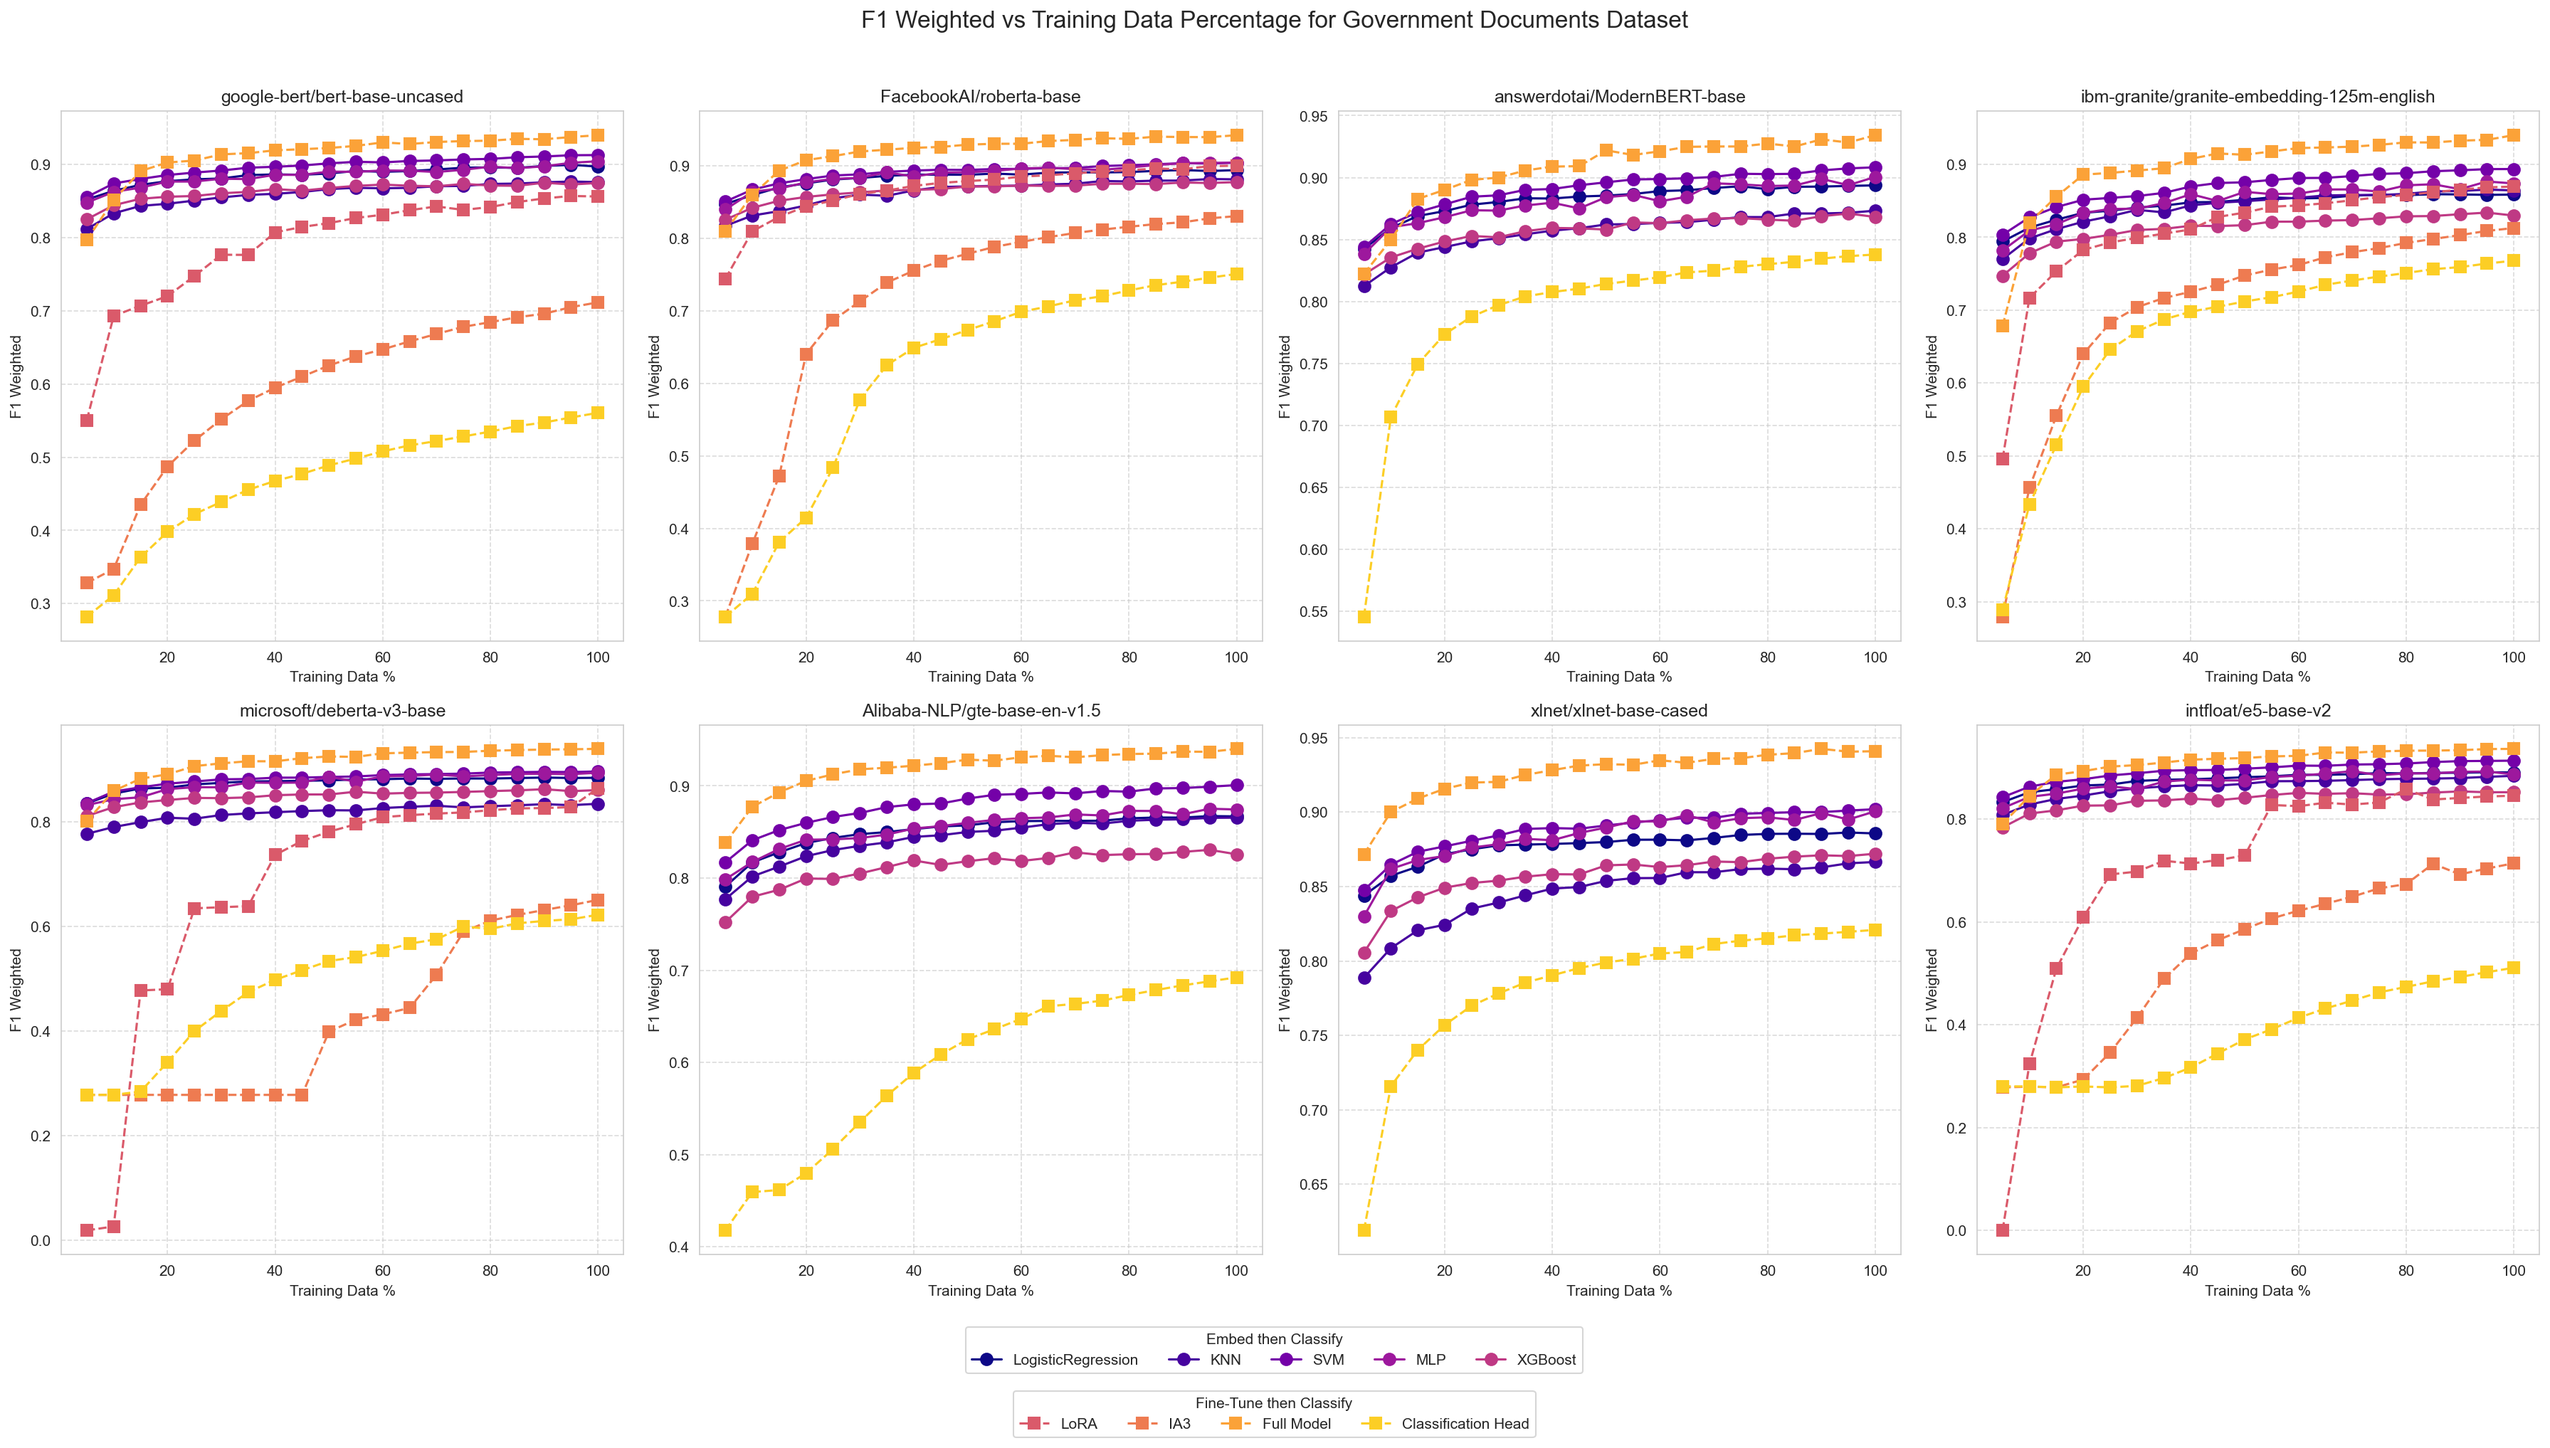
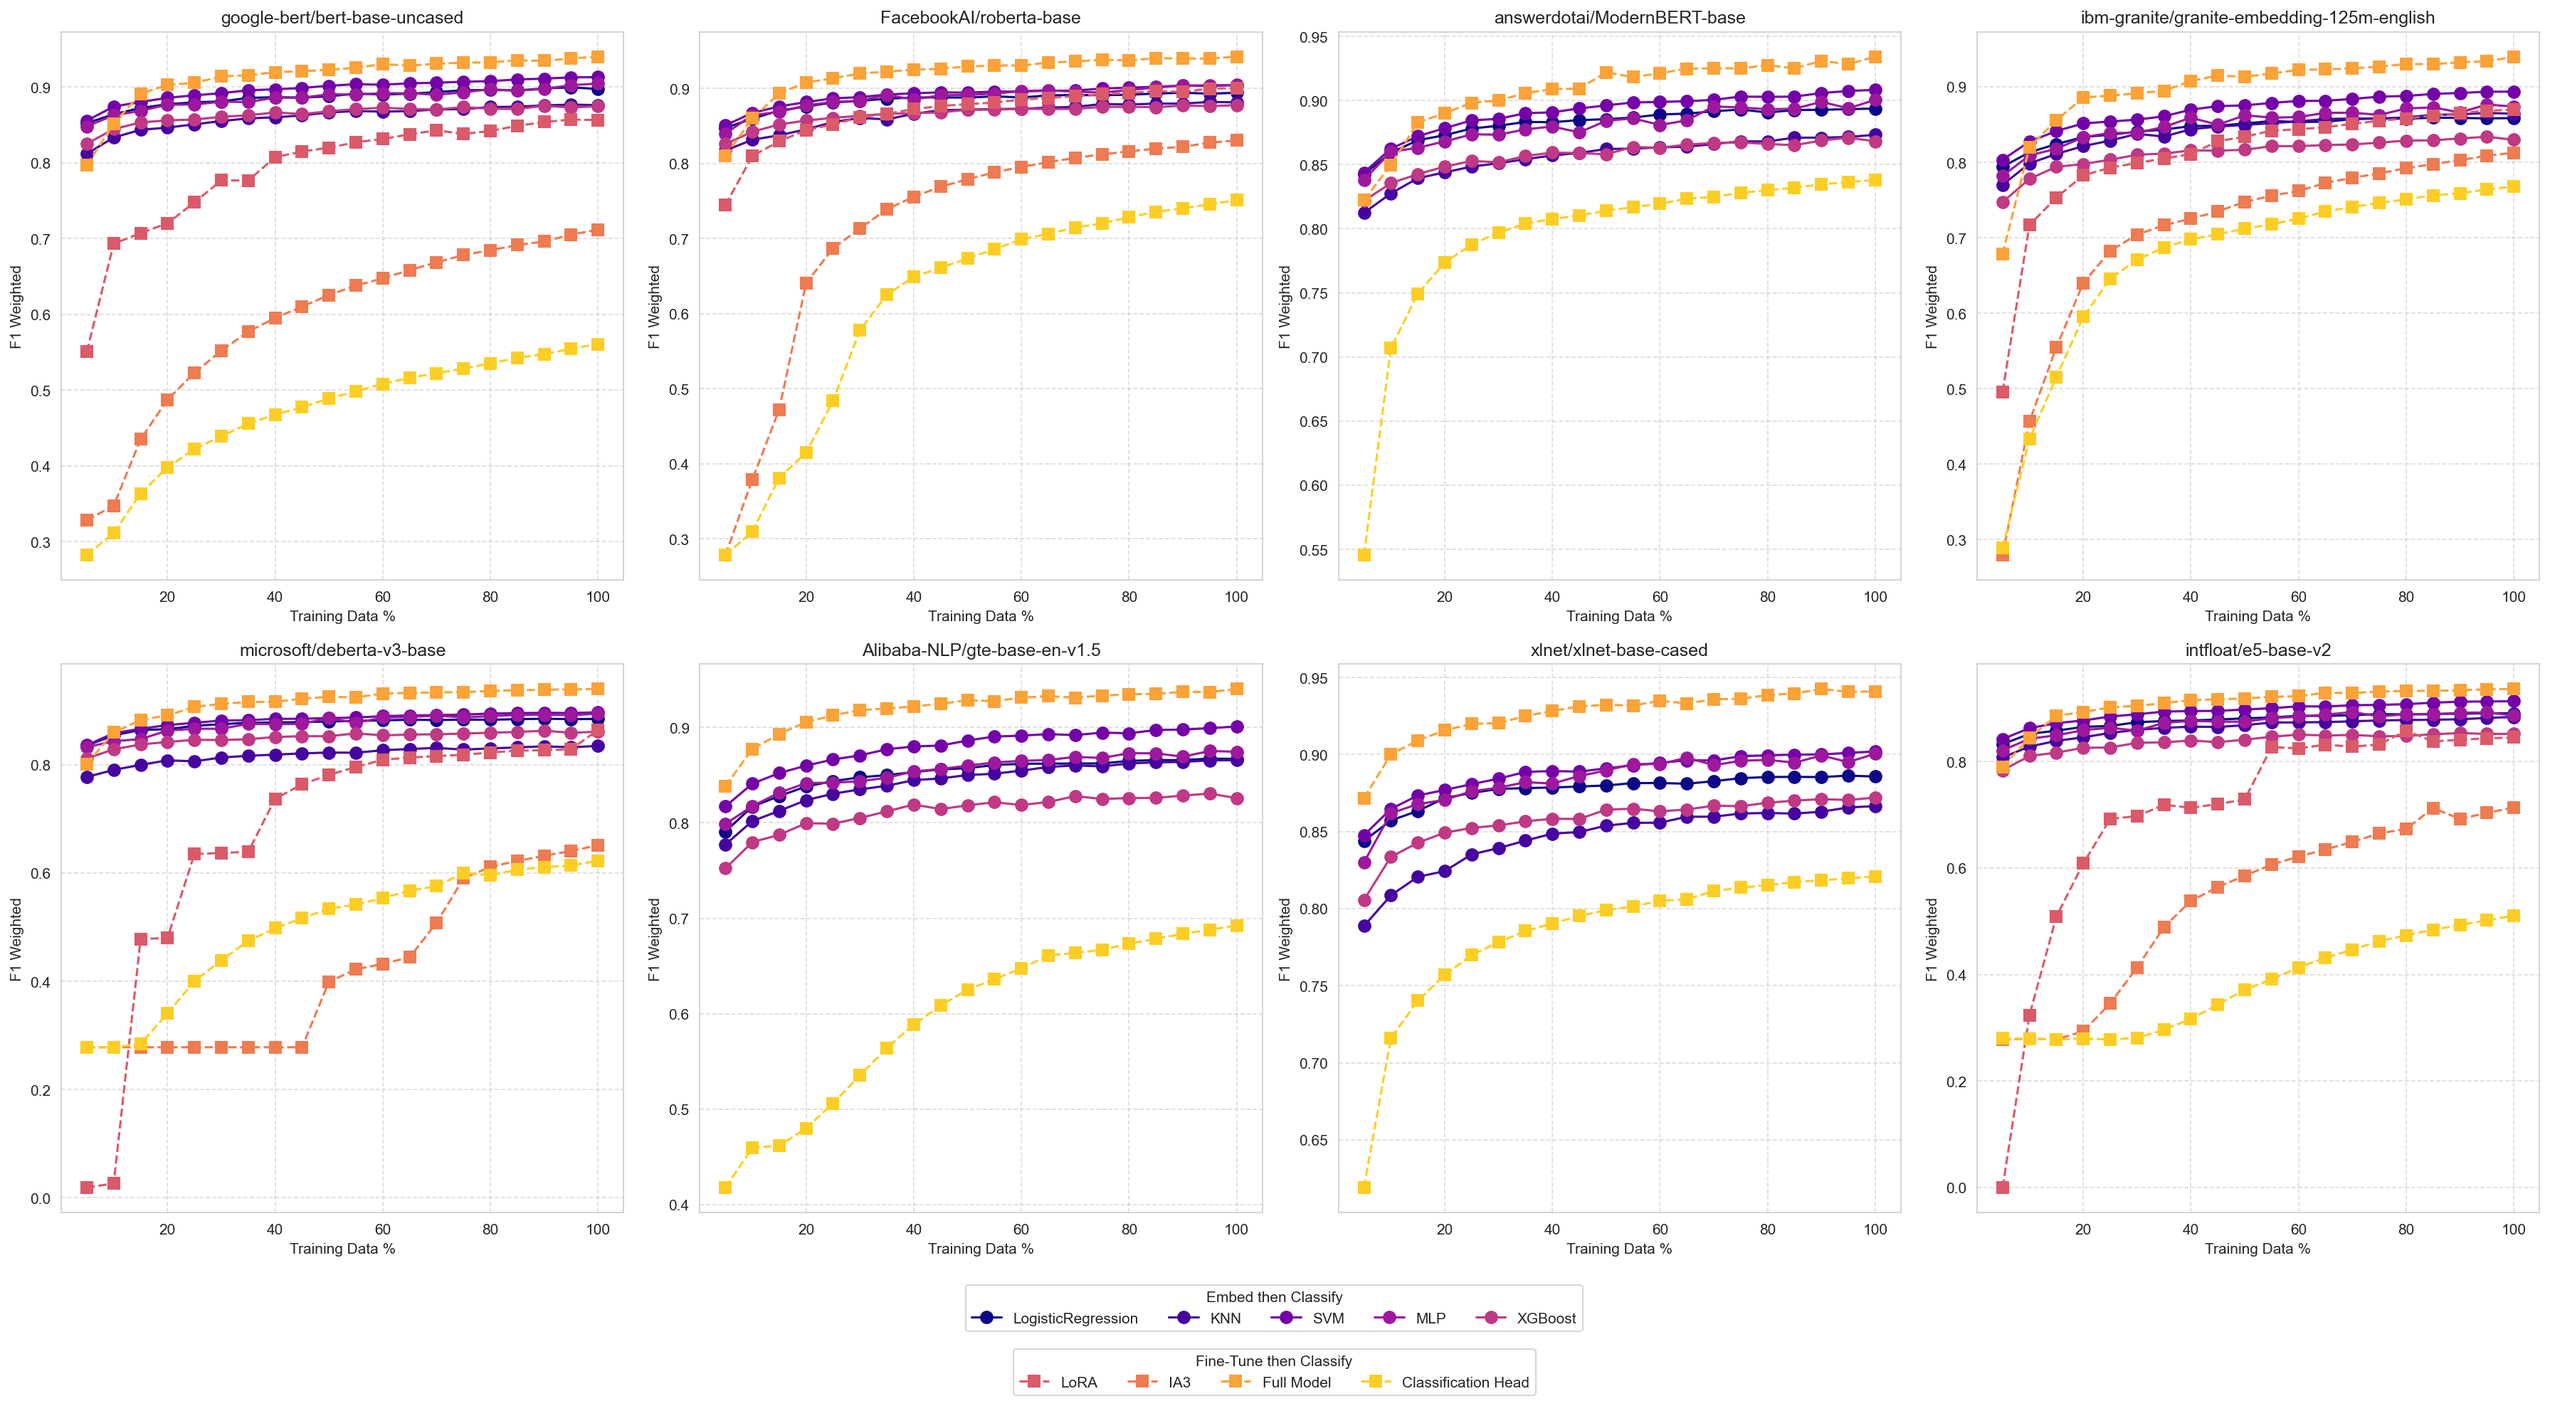
Remove titles from visualizations

diff --git a/Code/visualizations.py b/Code/visualizations.py
@@ -44,7 +44,6 @@ def plot_metric_comparison(embed_results, finetune_results, metric, output_path,
     ax.grid(True, axis='x', linestyle='--', alpha=0.7)
     ax.set_xlabel(metric.replace('_', ' '), fontsize=12)
     ax.set_ylabel('Model', fontsize=12)
-    plt.title(f'{metric.replace("_", " ")} Comparison for {dataset_name.replace("_", " ")} Dataset', fontsize=14, pad=20)
 
     embed_legend = plt.legend(handles=[plt.scatter([], [], marker='o', color=color_dict[c], s=100, label=c)
                                      for c in classifiers],
@@ -69,19 +68,21 @@ def plot_metric_comparison(embed_results, finetune_results, metric, output_path,
 sns.set_style("whitegrid")
 
 metrics = ['Accuracy', 'F1_Micro', 'F1_Macro', 'F1_Weighted']
-dataset_names = ['Government_Documents', 'Hate_Speech', 'Liar2']
+# dataset_names = ['Government_Documents', 'Hate_Speech', 'Liar2']
+dataset_names = ['Liar2']
+
 
 
 for metric in metrics:
     for dataset_name in dataset_names:
         os.makedirs(f'Results/{dataset_name}/images', exist_ok=True)
-        embed_results = pd.read_csv(f'Results/{dataset_name}/embedding_classification_results.csv')
-        finetune_results = pd.read_csv(f'Results/{dataset_name}/fine_tuning_classification_results.csv')
+        embed_results = pd.read_csv(f'Results/{dataset_name}/embedding_classification_results_with_justification.csv')
+        finetune_results = pd.read_csv(f'Results/{dataset_name}/fine_tuning_classification_results_with_justification.csv')
         plot_metric_comparison(
             embed_results,
             finetune_results,
             metric,
-            f'Results/{dataset_name}/images/classification_{metric.lower()}_comparison.png',
+            f'Results/{dataset_name}/images/classification_{metric.lower()}_comparison_with_justification.png',
             dataset_name
         )
 
@@ -162,8 +163,6 @@ def plot_ablation_study(embed_results, finetune_results, metric, output_path, da
                                  loc='lower center',
                                  ncol=len(strategies))
 
-    plt.suptitle(f'{metric.replace("_", " ")} vs Training Data Percentage for {dataset_name.replace("_", " ")} Dataset',
-                 fontsize=16, y=1.02)
     plt.tight_layout()
     plt.savefig(output_path, dpi=150, bbox_inches='tight')
     plt.close()
@@ -175,14 +174,14 @@ metrics = ['Accuracy', 'F1_Micro', 'F1_Macro', 'F1_Weighted']
 dataset_name = 'Government_Documents'
 os.makedirs('Results/images', exist_ok=True)
 
-for metric in metrics:
-    embed_results = pd.read_csv(f'Results/{dataset_name}/embedding_classification_ablation.csv')
-    finetune_results = pd.read_csv(f'Results/{dataset_name}/fine_tuning_classification_ablation.csv')
+# for metric in metrics:
+#     embed_results = pd.read_csv(f'Results/{dataset_name}/embedding_classification_ablation.csv')
+#     finetune_results = pd.read_csv(f'Results/{dataset_name}/fine_tuning_classification_ablation.csv')
 
-    plot_ablation_study(
-        embed_results,
-        finetune_results,
-        metric,
-        f'Results/{dataset_name}/images/ablation_{metric.lower()}_comparison.png',
-        dataset_name
-    )
+#     plot_ablation_study(
+#         embed_results,
+#         finetune_results,
+#         metric,
+#         f'Results/{dataset_name}/images/ablation_{metric.lower()}_comparison.png',
+#         dataset_name
+#     )
